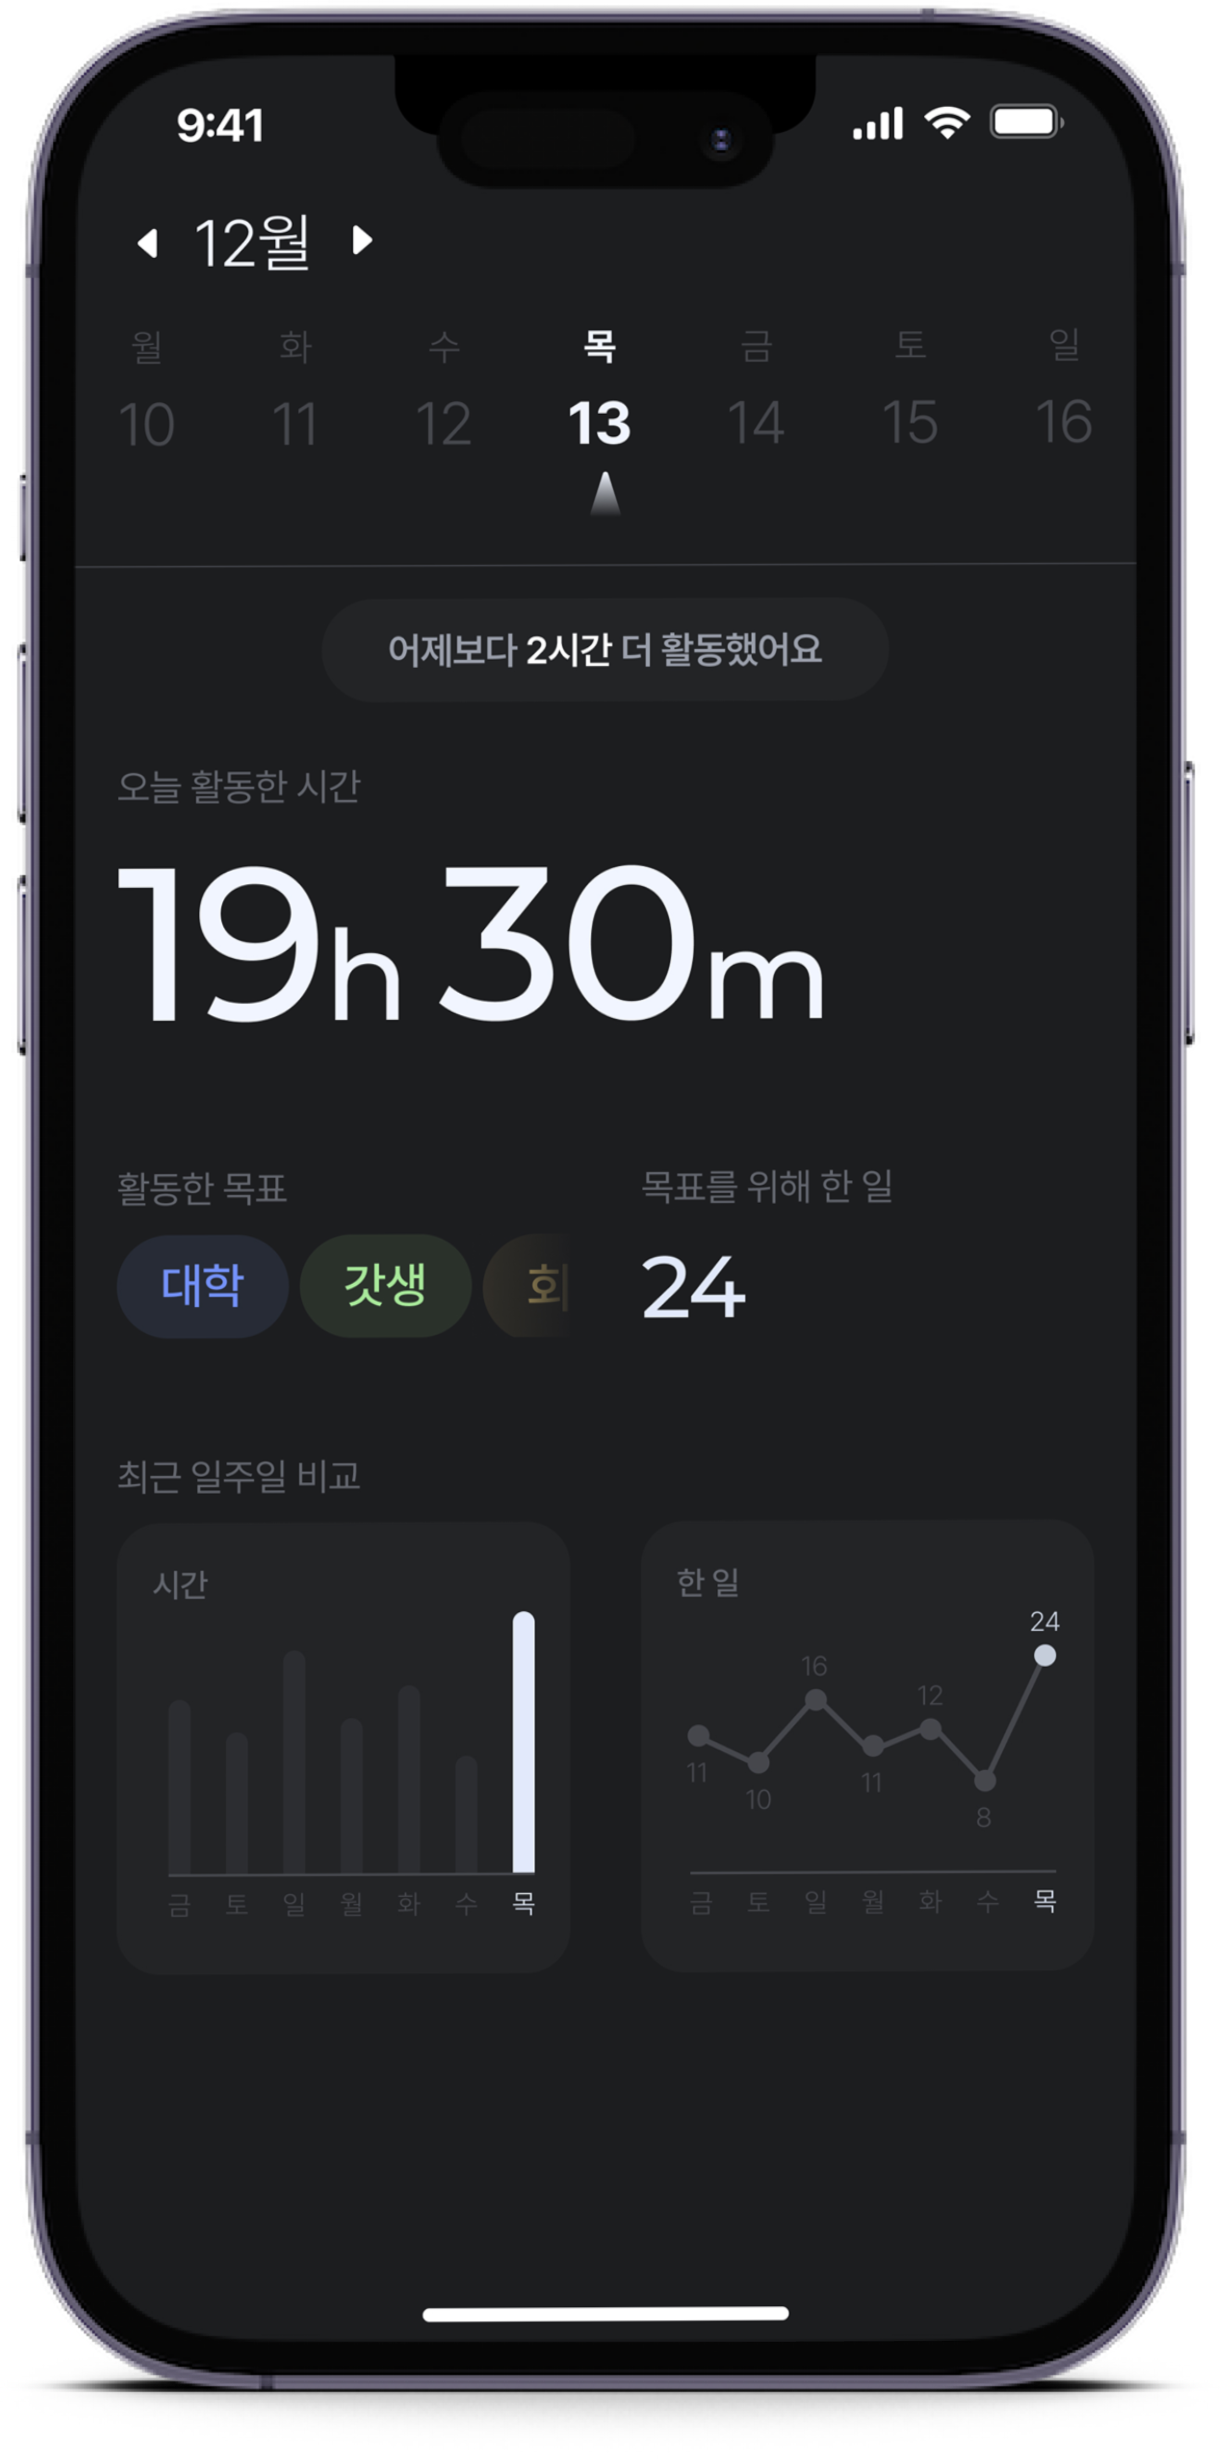
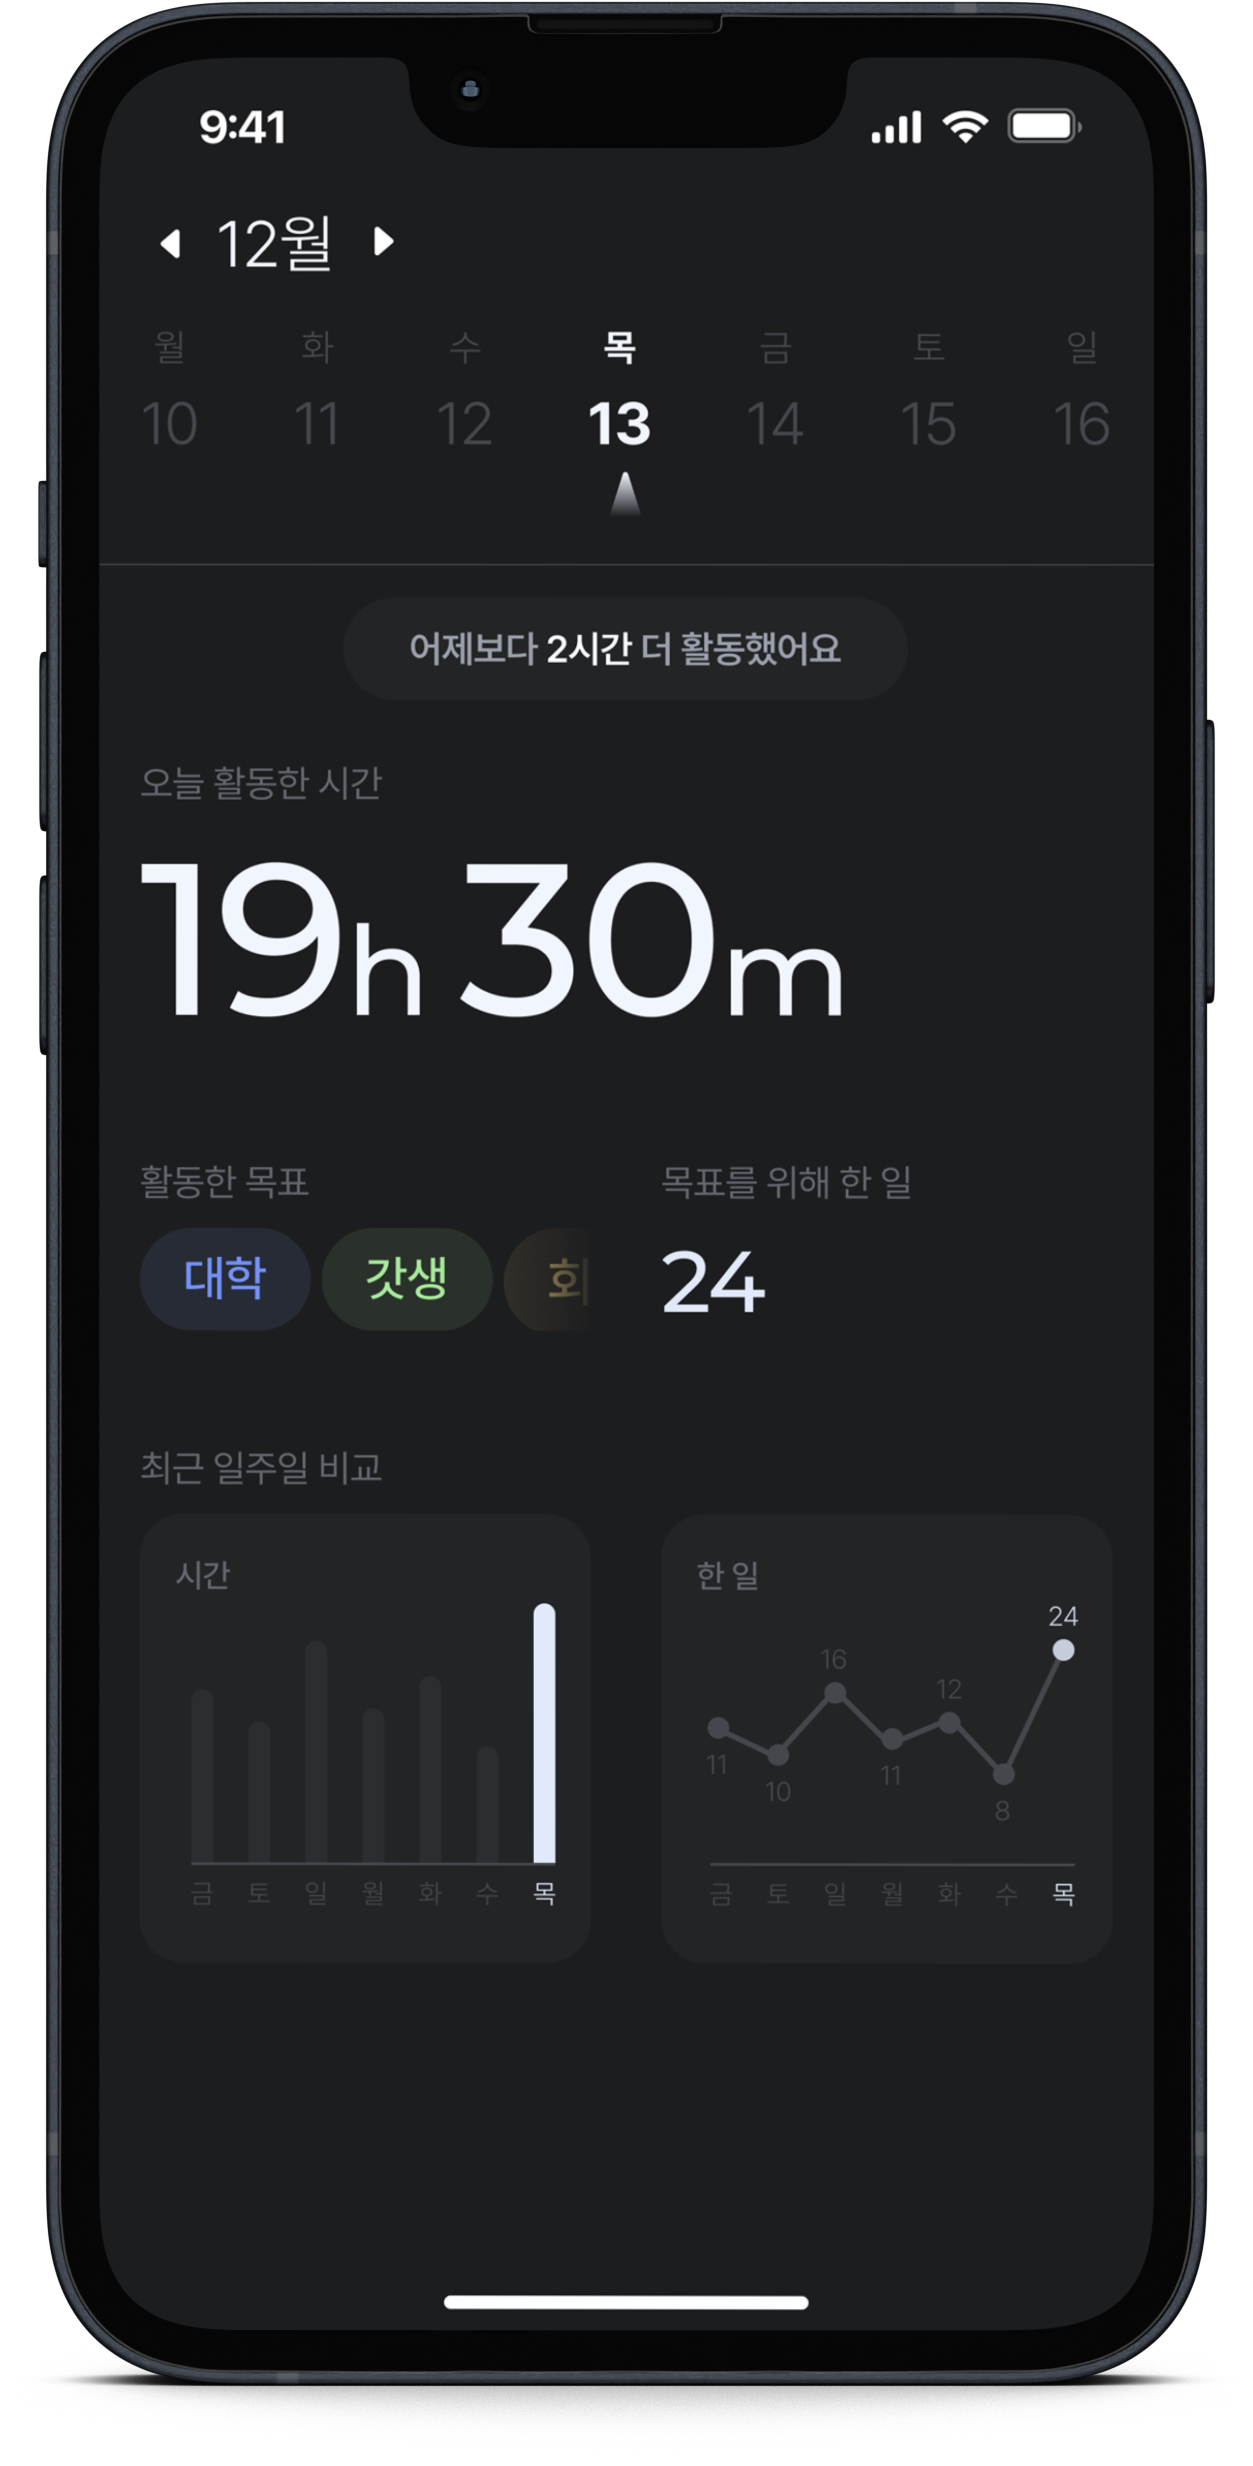
png 교체

diff --git a/src/pages/Landing/Landing.tsx b/src/pages/Landing/Landing.tsx
@@ -2,6 +2,7 @@ import { useState, useEffect, useRef } from 'react';
 import cn from 'utils/ClassName';
 import useMediaQuery from 'hooks/useMediaQuery';
 import Logo from 'static/image/Logo/logo_white_trans.png';
+import namelogo from 'static/image/Logo/logo_phrase_trans.png';
 import LandingWeb from 'static/image/Landing/landing_web.png';
 import LandingWidget from 'static/image/Landing/landing_widget.png';
 import LandingCrawling from 'static/image/Landing/landing_crawling.png';
@@ -288,7 +289,7 @@ export default function Landing() {
         >
           <div className={styles['section3-4__phrase']}>
             <img src={Logo} alt="logo" />
-            AXYZ
+            <img src={namelogo} alt="logo" />
             <span className={styles['section3-4__phrase--text']}>사전예약 하고 출시 알림을 받아보세요!</span>
           </div>
           <button className={styles['section3-4__reserve']} type="button">서비스 출시 알림 받기</button>

diff --git a/src/pages/Landing/Landing.module.scss b/src/pages/Landing/Landing.module.scss
@@ -3,7 +3,7 @@
 @mixin section {
   position: relative;
   width: 100%;
-  height: 100vh;
+  height: 120vh;
   display: flex;
   flex-direction: column;
   align-items: center;
@@ -342,7 +342,7 @@
       img {
         max-width: 33.3%;
         max-height: 100%;
-        transition: 1s;
+        transition: 0.7s;
 
         @include media.media-breakpoint-down(mobile) {
           max-width: none;
